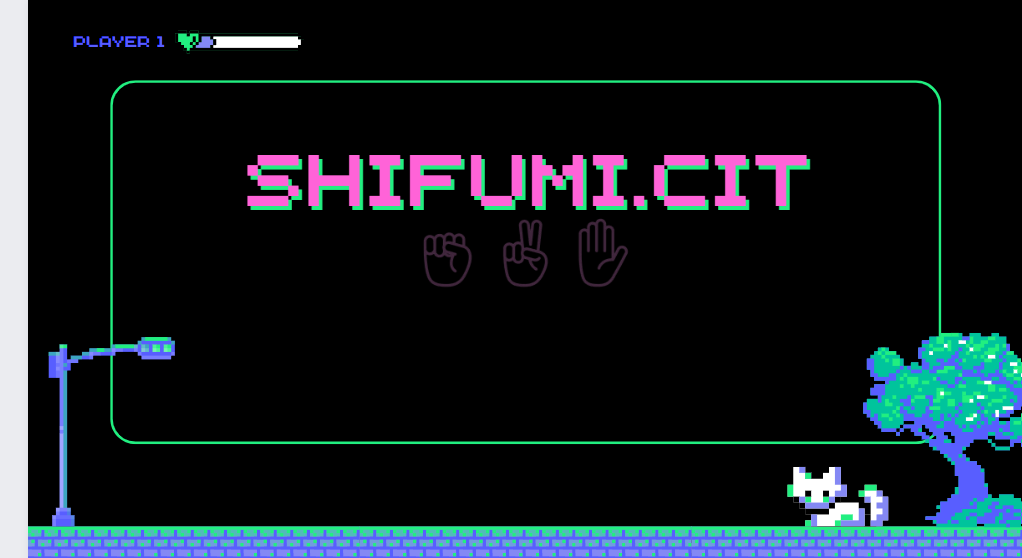
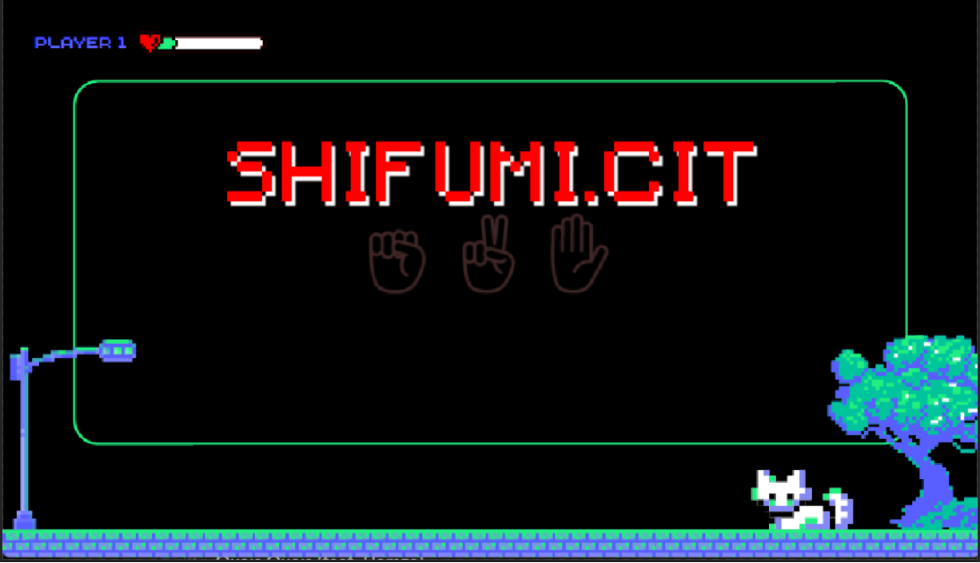
Interface graphique : bouton start et action sur le bouton

Changed region(s): [[0.0, 0.0, 1.0, 1.0], [0.2143, 0.2437, 0.7959, 0.5179]]

diff --git a/src/main/java/com/devops/tpAppliReseau/styles/style.css b/src/main/java/com/devops/tpAppliReseau/styles/style.css
@@ -1,0 +1,3 @@
+.chart {
+    -fx-background-image: url("../../../../images/fondecranAccueil.png");
+}

diff --git a/src/main/java/com/devops/tpAppliReseau/ShiFuMi.java b/src/main/java/com/devops/tpAppliReseau/ShiFuMi.java
@@ -1,0 +1,82 @@
+package com.devops.tpAppliReseau;
+
+import javafx.application.Application;
+import javafx.event.EventHandler;
+import javafx.scene.Group;
+import javafx.scene.Scene;
+import javafx.scene.image.ImageView;
+import javafx.scene.layout.BackgroundImage;
+import javafx.scene.text.Text;
+import javafx.stage.Stage;
+
+import javax.swing.*;
+import java.awt.*;
+import java.awt.event.ActionEvent;
+import java.awt.event.ActionListener;
+import java.awt.image.ImageObserver;
+import java.awt.image.ImageProducer;
+
+public class ShiFuMi extends Application{
+
+    private ImageIcon background;
+    private Image image;
+    JFrame frame = new JFrame();
+    JPanel panelStart = new JPanel();
+    JPanel panelUser = new JPanel();
+
+    @Override
+    public void start(Stage stage) throws Exception {
+        Group root = new Group();
+        Scene scene = new Scene(root);
+
+        /*frame.setContentPane(panelStart);*/
+
+        frame.setSize(980,600);
+        frame.setResizable(false);
+        frame.setLocationRelativeTo(null);
+
+        ImageIcon imageIcon = new ImageIcon("src/main/java/images/fondecranAccueil.png");
+
+        JLabel background = new JLabel("",imageIcon,JLabel.CENTER);
+        background.setBounds(0,0,0,0);
+
+        /*JLabel test = new JLabel("Salut");
+        test.setBounds(0,0,500,50);
+        test.setForeground(Color.BLUE);
+        frame.add(test);*/
+
+        Icon iconStart = new ImageIcon("src/main/java/images/btnStart.png");
+        JButton btn = new JButton(iconStart);
+        btn.setOpaque(false);
+        btn.setContentAreaFilled(false);
+        btn.setBorderPainted(false);
+        btn.setCursor(Cursor.getPredefinedCursor(Cursor.HAND_CURSOR));
+        btn.setBounds(430,320,120,50);
+
+        btn.addActionListener(new ActionListener() {
+            @Override
+            public void actionPerformed(ActionEvent e) {
+
+            }
+        });
+        /*btn.addActionListener(new ActionListener() {
+            public void actionPerformed(ActionEvent e) {
+                selectionButtonPressed();
+            }
+        } );*/
+        frame.add(btn);
+        frame.add(background);
+
+
+
+        frame.setVisible(true);
+
+
+        /*stage.setScene(scene);
+
+        stage.show();
+*/
+
+    }
+
+}

diff --git a/src/main/java/com/devops/tpAppliReseau/App.java b/src/main/java/com/devops/tpAppliReseau/App.java
@@ -1,29 +1,16 @@
 package com.devops.tpAppliReseau;
 
-import javax.swing.*;
+import javafx.application.Application;
 
 /**
  * Hello world!
  *
  */
-public class App 
-{
-    public static ShuFuMi scene;
+public class App {
+    public static ShiFuMi scene;
     public static void main( String[] args )
     {
-        //Fenêtre du jeu
-        JFrame fenetre = new JFrame("Shifumi.cit");
-        fenetre.setDefaultCloseOperation(JFrame.EXIT_ON_CLOSE);
-        fenetre.setSize(980,590);
-        fenetre.setLocationRelativeTo(null);
-        fenetre.setResizable(false);
-        fenetre.setAlwaysOnTop(true);
-
-        //Instanciation de l'objet scene
-        scene = new ShuFuMi();
-
-        fenetre.setContentPane(scene); //On associe la scene à la fenêtre du jeu
-        fenetre.setVisible(true);
+        Application.launch(ShiFuMi.class, args);
 
 
     }

diff --git a/src/main/java/client/ClientPanel.java b/src/main/java/client/ClientPanel.java
@@ -1,0 +1,22 @@
+package client;
+
+import javafx.scene.Node;
+import javafx.scene.Parent;
+
+public class ClientPanel extends Parent{
+
+    public ClientPanel(Node textToSend, Node scrollReceivedText, Node clearBtn, Node sendBtn) {
+
+        this.getChildren().add(textToSend);
+        this.getChildren().add(scrollReceivedText);
+        this.getChildren().add(clearBtn);
+        this.getChildren().add(sendBtn);
+    }
+
+    private Client client;
+
+    public void setClient(Client client) {
+        this.client = client;
+    }
+
+}
